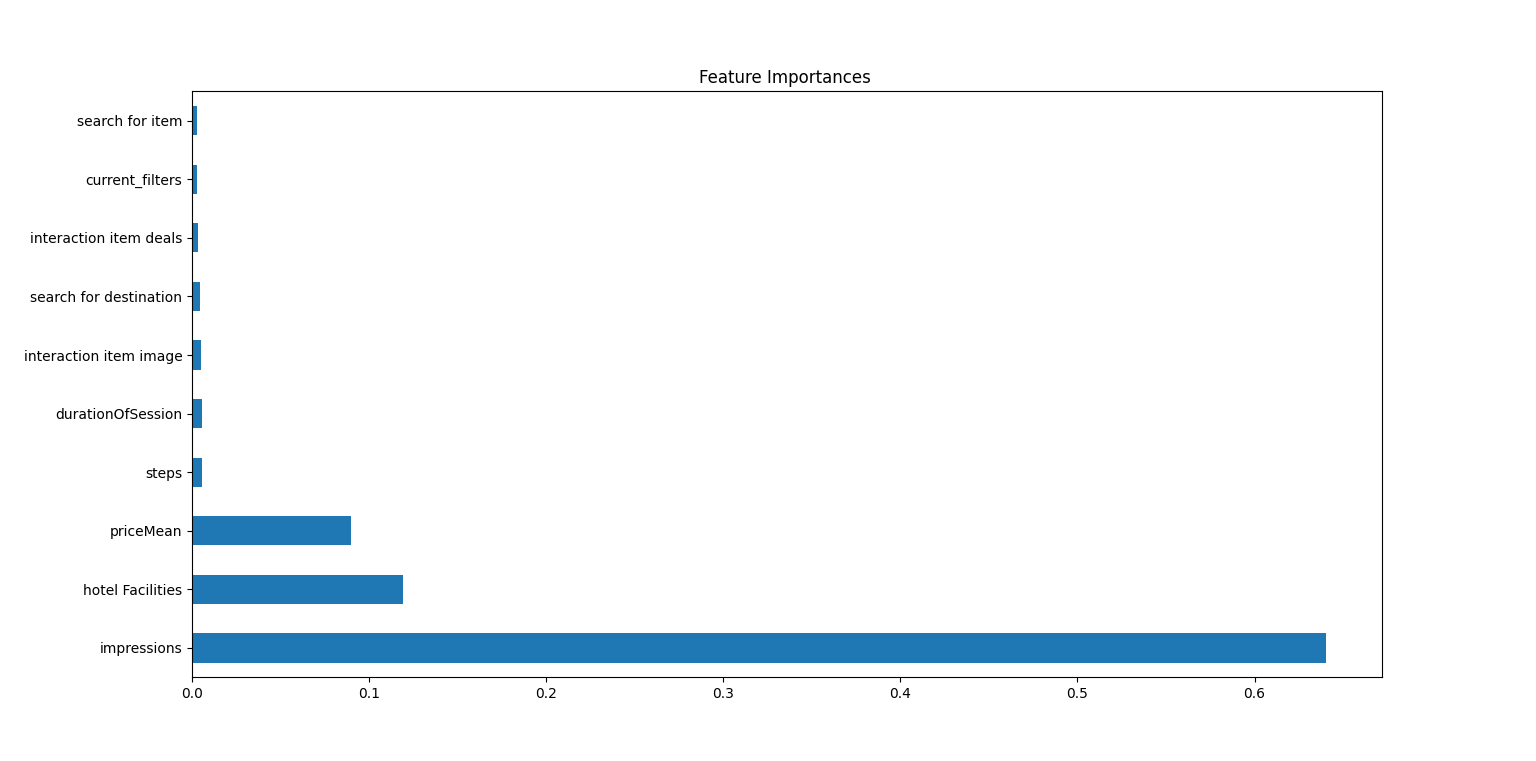
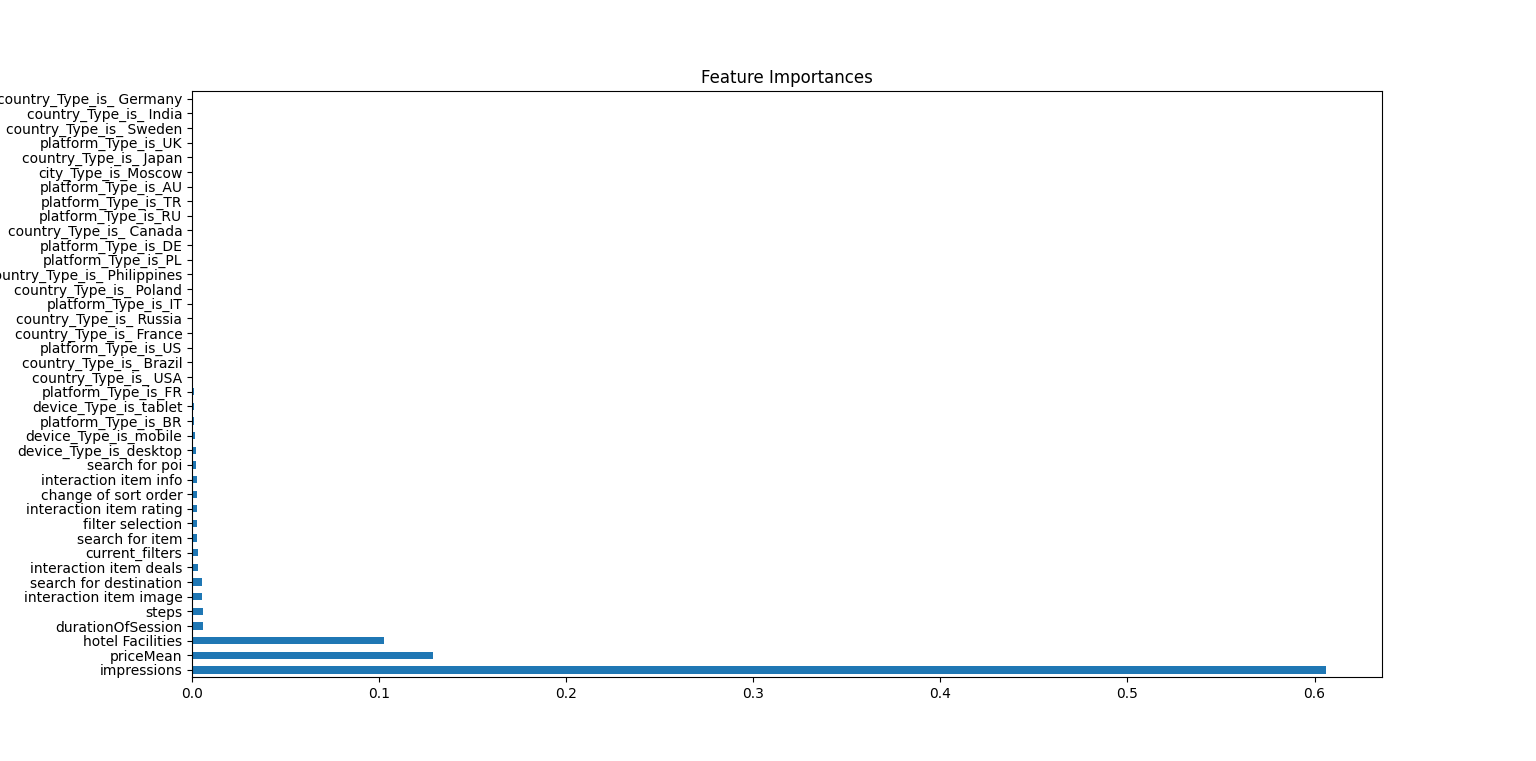
generate boxplots images and update read me

Changed region(s): [[0.0, 0.1209, 0.875, 0.9369], [0.4375, 0.0907, 0.5625, 0.1209]]

diff --git a/generateCsv.py b/generateCsv.py
@@ -14,7 +14,7 @@ missing_values = ["n/a", "na", "--", "?"] # pandas only detect NaN, NA,  n/a and
 my_path = os.path.abspath(os.path.dirname(__file__)) # get the current path
 df_train=pd.read_csv(r''+my_path+'\\data\\train.csv', sep=',', na_values=missing_values) #, nrows=100000
 itemMetaData=pd.read_csv(r''+my_path+'\\data\\item_metadata.csv', sep=',', na_values=missing_values)
-
+print('initial shape: ',df_train.shape) # (1048575, 12)
 groupedByUserId  = df_train.groupby(['user_id']) # group rows per user_id
 
 for index,group in groupedByUserId:

diff --git a/README.md b/README.md
@@ -42,19 +42,15 @@ The generated csv from generateCsv.py (see on data folder export_dataframe.csv) 
 19. search for item
 20. target
 
-Gradient Descent
-Correlation matrix
-Variance Inflation Factor (VIF) is fo regression
-https://medium.com/analytics-vidhya/what-is-multicollinearity-and-how-to-remove-it-413c419de2f
-TODO: # Descriptive statistics for each column
-features.describe()
-feature_importances_
-#TODO:  logistic regression, random forest regressor
-
 ### Data Description
-Initial dataset: (58529, 20)
-Print missing values:  0
+
+Initial dataset: (1048575, 12)
 Generated dataset: (58529, 20)
+Print missing values:  0
+
+### Correlation HeatMap
+
+![](images/correlationHeatMap.png)
 
 ### Data Preprocessing
 
@@ -65,17 +61,19 @@ In generated dataset the target values are 4985 rows for class:0 (not clickout) 
 
 ![](images/initialDistOfTargetClass.png)
 
-As we can obser the dataset is imbalance, therefor we should delete some values from the majority class in order to balanche the data set
+As we can obser that the dataset is imbalance, therefor we should delete some values from the majority class in order to balance the data set.
 
 ![](images/generatedDistOfTargetClass.png)
 
-The final balanche dataset consist of 9970 observers.
+The final balanced dataset consist of 9970 observers.
 
-![](images/correlationHeatMap.png)
 
-### Detect Missing Data
 
-### Detect Outlier
+### Detect Outliers
+
+![](images/boxPlot1.png)
+![](images/boxPlot2.png)
+![](images/boxPlot3.png)
 
 ### One Hot encoding
 In order to convert the categorical variables as binary vectors we use the one hot encoding.
@@ -86,6 +84,8 @@ This ensures that the random numbers are generated in the same order we use the 
 
 #### Feature Importance
 We use SelectKBest in order to select those features that they have the strongest relationship with the output variable.
+
+![](images/featureImportances.png)
 
 ### Feature Scaling
 
